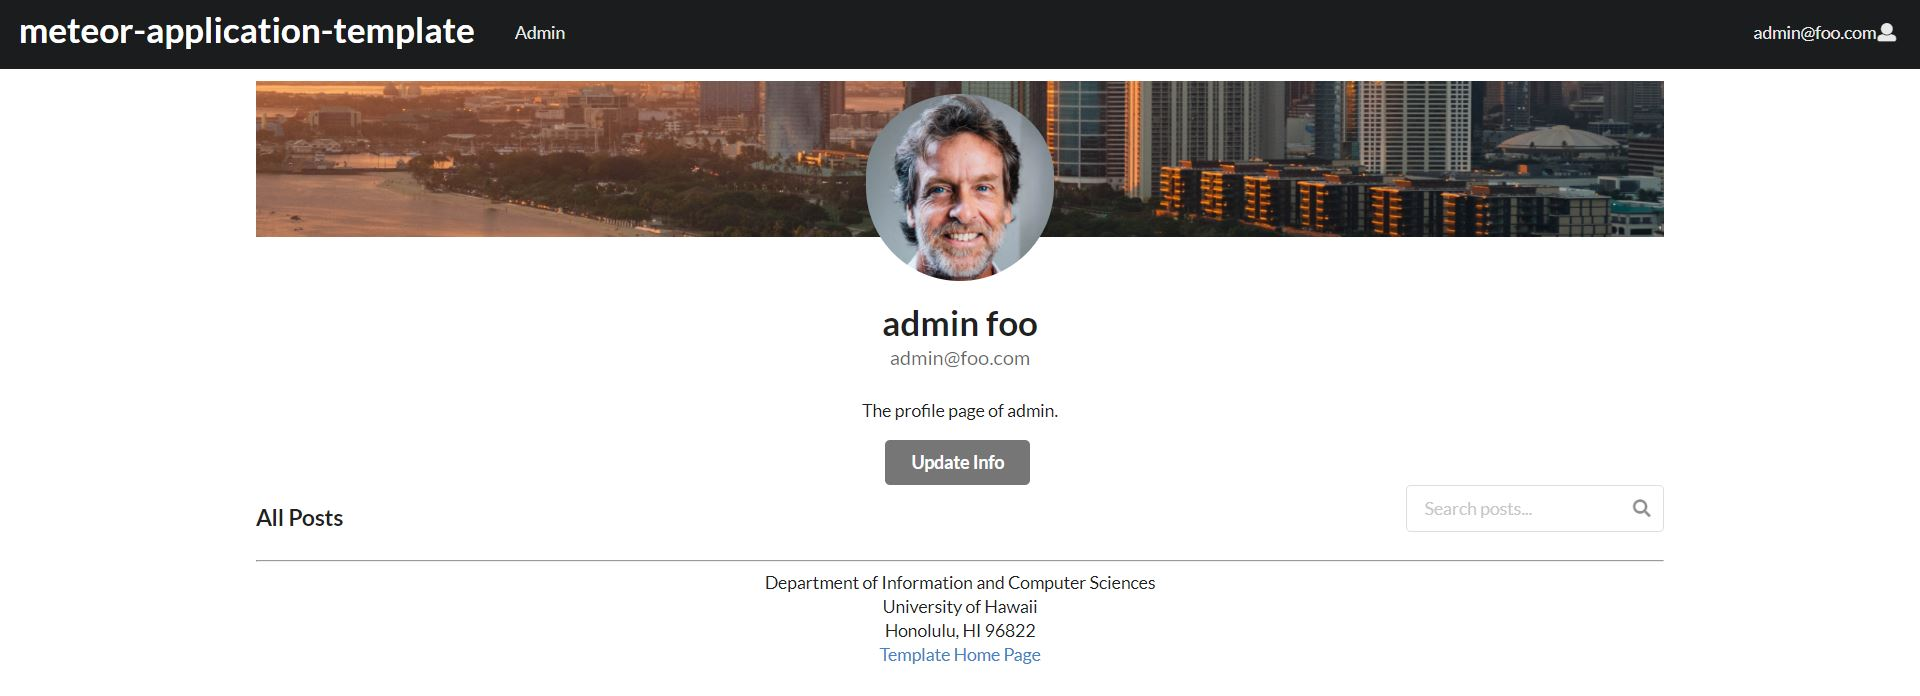
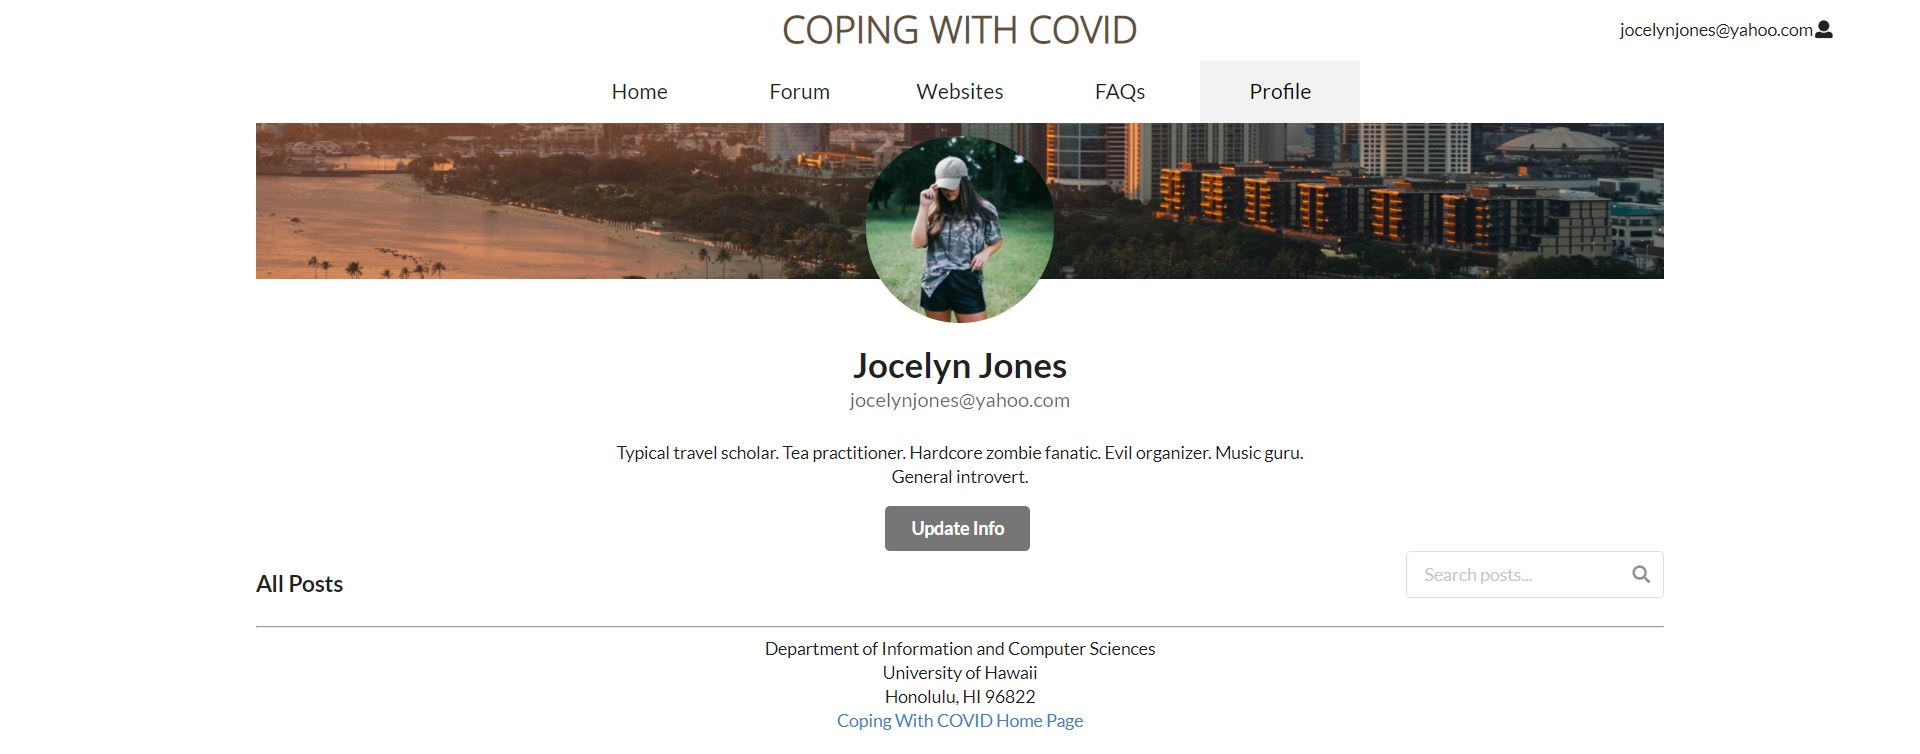
updated images, added to user guide

diff --git a/index.md b/index.md
@@ -15,8 +15,6 @@
 
 - <a href="https://copingwithpandemic.xyz/#/">Coping with COVID Landing page</a>
 
-- <a href="https://github.com/coping-with-covid">GitHub organization for the project</a>
-
 - <a href="https://github.com/coping-with-covid/coping-with-covid/projects/1">Milestone 1 page</a>
 
 - <a href="https://github.com/coping-with-covid/coping-with-covid/projects/3">Milestone 2 page</a>
@@ -54,7 +52,7 @@ We want to help students reach out during the COVID-19 pandemic and to cope with
 
 ## Development History
 
-### Inital Idea
+### Initial Idea
 
 Our original idea for the site was to develop a chat bot that could chat and comfort the user.
 How the bot would work would be:
@@ -81,82 +79,89 @@ We decided against the chat bot, because we do not have the skill to make the ch
 <img src="doc/2.PNG">
 
 - Mockup pages
-<img src="doc/7.png">
-
-<img src="doc/4.png">
-
-<img src="doc/5.png">
-
-<img src="doc/6.png">
-
-<img src="doc/profile.png">
 
 - Active pages
 [Landing Page](https://copingwithpandemic.xyz/#/)
-<img src="doc/landingfaq.jpg">
 
 [Sign In Page](https://copingwithpandemic.xyz/#/signin)
-<img src="doc/login.JPG">
 
 [Sign Up Page](https://copingwithpandemic.xyz/#/signup)
-<img src="doc/signup.JPG">
 
 [Profile Page](https://copingwithpandemic.xyz/#/profile/)
-<img src="doc/profilepage.JPG">
 
 [Edit Profile Page](https://copingwithpandemic.xyz/#/editprofile/)
-<img src="doc/editprofile.JPG">
 
 ### Milestone 2
 
 - [Landing Page](https://copingwithpandemic.xyz/#/)
-<img src="doc/landing.2.PNG">
 
 - [Signin Page](https://copingwithpandemic.xyz/#/signin)
-<img src="doc/login.2.PNG">
 
 - [SignUp Page](https://copingwithpandemic.xyz/#/signup)
-<img src="doc/signup.2.PNG">
 
-- [Home Page]()
+- [Home Page](https://copingwithpandemic.xyz/#/home)
 
-- [Forum Page]()
+- [Websites Page](https://copingwithpandemic.xyz/#/websites)
 
-- [COVID-19 Website](https://copingwithpandemic.xyz/#/websites)
-<img src="doc/web.2.PNG">
+- [Add Website](https://copingwithpandemic.xyz/#/addsite)
 
-- [FAQ Page]()
+- [Edit Website](https://copingwithpandemic.xyz/#/editsite/)
 
+- [FAQ Page](https://copingwithpandemic.xyz/#/about)
 
-- [Profile](https://copingwithpandemic.xyz/#/profile/)
-<img src="doc/profile.2.PNG">
+- [Profile](https://copingwithpandemic.xyz/#/profile/Sg2vf2YfpyrvXyQu6)
 
-- [Updata Profile](https://copingwithpandemic.xyz/#/editprofile/)
-<img src="doc/updata.2.PNG">
-
+- [Update Profile](https://copingwithpandemic.xyz/#/editprofile/)
 
 ## User Guide
 This section provided the guideline to show how to use our features in website
 
 ### Landing page
 
-This is the initial page when you get into the website, you can see our introduction of the project and some details. We also have the login and signup option, you can strt with register for an account and login.
-<img src="doc/landing.2.PNG">
+This is the initial page when you get into the website, you can see our introduction of the project and some details. We also have the login and signup option, you can start with register for an account and login.
+<img src="doc/landing_2.jpg">
 
 ### Login and Signup
 
-Click the Register buttom in the home page if you don't have an account in the webasite. You will need to enter your name, email address and the password you want for registering this account.
+Click the Register button in the home page if you don't have an account yet. You will need to enter your name, email address and the password to register for an account.
 <img src="doc/signup.2.PNG">
 
-Alternatively, you can select “Login” to go to the following page and log in to your old and new account
+Alternatively, you can select “Login” to go to the following page and log in to your account.
 <img src="doc/login.2.PNG">
 
-### Home page 
+### Home page
 
 After logging in, you are taken to the home page.
+<img src="doc/home.JPG">
 
-#### Forum
+### Profile Page
 
+You can view your profile page after logging in. The page contains your info and all your posts (to be implemented in M3).
+<img src="doc/profilepage.JPG">
+
+You can update your profile by clicking 'Update Info'.
+<img src="doc/editprofile.jpg">
+
+### Websites Page
+
+You can view the websites forum page after logging in. The page contains website posts related to COVID & student health from users. You can sort posts by date or likes (to be implemented in M3). Clicking on the post title will bring you to the linked website. Clicking on the user will bring you to their profile page. You can add a comment to each post by clicking 'Submit'. The comment will also contain a link to your profile page.
+<img src="doc/websitespage.jpg">
+
+To add a website post, click on 'Create New Post'.
+<img src="doc/addsite.JPG">
+
+To edit your website post, click on 'Edit' on your post.
+<img src="doc/editsite.jpg">
+
+### Forum
+
+To be implemented in M3...
+Page mockup:
+<img src="doc/forums.png">
+
+### About Us Page
+
+<img src="doc/about.jpg">
 
 ## More Advanced Ideas
 
